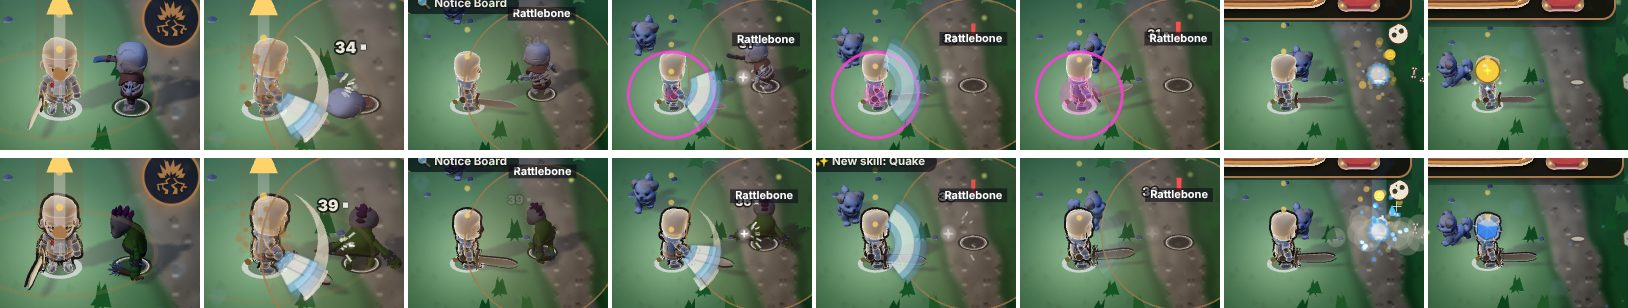
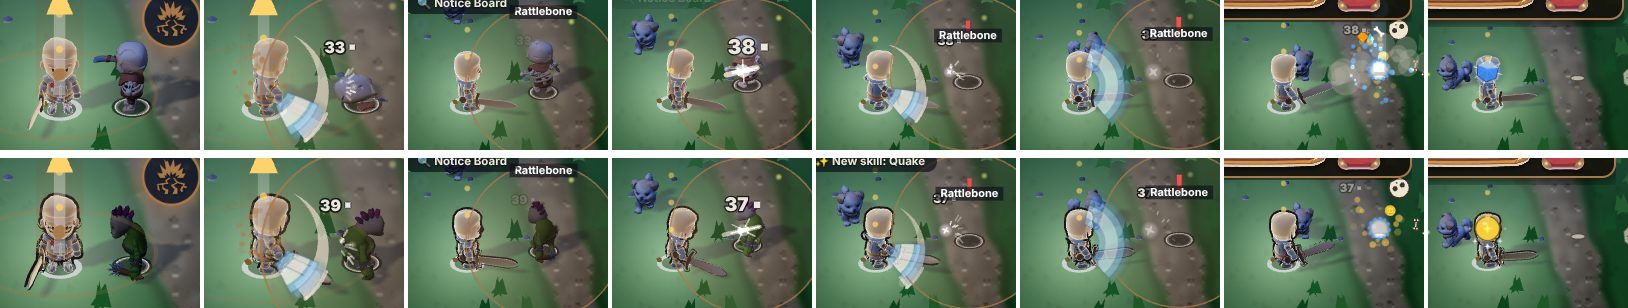
Look v2: final 915x412 evidence (v2 default, plaza lamps only)
Claude-Session: https://claude.ai/code/session_01ABMDoL5VWt79ShQAHyLWuS

diff --git a/docs/concept-visual-language.md b/docs/concept-visual-language.md
@@ -97,14 +97,14 @@ All gameplay evidence from `tools/check.js` only (offline fixture: network block
 2. **What did I miss?** (a) Shared `LOOK3D` keys: grunt/shield/wisp are used by both the arena and the world, so the new look must use world-only keys or the arena changes by accident. (b) NPCs share bodies with enemies and heroes; NPC renewal is in scope (village) but listed after enemies. (c) The village mock drifts toward voxel; the target is rounder blocks. (d) Orel's hero visits the village too: the readability layer touches it visually. It's opt-in, and Orel can veto it for his hero. (e) iPad framing is not mocked, only planned in evidence.
 3. **Code check: does it exist already, what's the risk?** KayKit palette method, Blender-from-code, Quaternius pipeline and lazy-loaded `js/m3d/` already exist, so most of this is content, not new systems. Risks: `js/m3d/` already 9MB, so every new body must replace weight, not just add it; outline shader cost on the phone must be measured; KayKit's rounded style vs "Roblox blocky" is a taste call only Nir can make after seeing the pilot.
 
-## 6. Pilot results (11.11.2026, PR #666, `?look=v2` only)
+## 6. Pilot results (11.11.2026, PR #666)
 
-Nir approved the free pilot (A+B). Built behind `?look=v2`; without it nothing changes. Village and open world only.
+Nir approved the free pilot (A+B), then liked it (11.11: "אוהב את הסטייל החדש"). **Now on by default** in the village and open world; `?look=v1` turns it off for comparison. The arena and Underworld never change.
 
 **What's in it**
 - **Hero:** thin dark outline (about 2.5 px at the phone camera) + an edge-only light rim on the selected hero's own model. Model, skin and gear never replaced. The existing white ground ring (`readable3d.js`) is reused. The rim is `rim-world.js`'s own (merged in #664): look v2 only turns it up in daylight, so there's one rim shader, not two.
 - **One world enemy, new silhouette:** the world grunt is drawn as Quaternius Orc_Skull (CC0), reduced to **2,399 triangles** (today's grunt body: 5,288), 1 material, 128px texture, 43 joints. Same type, hp, size, hit size and timings. Only `foeKey(e)` in `render3d.js` changes, and only when `S.wd` is set.
-- **Village corner:** the plaza in front of the village center gets a round warm paved floor, rounded curb stones and rounder toy lamps. Visual only.
+- **Village corner:** the street lamps around the plaza become rounder toy lamps. A round floor disc and a curb-stone ring were tried and removed (Nir didn't read the disc as a plaza; the stones alone read as scattered pebbles). Visual only.
 
 **Evidence** (`node tools/look-v2-shots.js`, offline: new browser context, every http(s) request answered locally, no real save. Same seed, before vs v2)
 
@@ -120,9 +120,9 @@ World, phone 915×412 (3D, Nir's screenshot size; 844×390 copies in the same fo
 Motion, one grunt next to the hero (top: before, bottom: v2): spawn, spawn, walk, walk, attack, attack, death, death. Spawn, walk and death read clearly. **The attack frames are not usable in either row**: the enemy is not visible in them, before or v2. That's my test setup, not the new body, and it is still open (see below).
 
 ![Arena, phone](concept/visual-language/pilot/p915-arena-scene.jpg)
-**Arena untouched:** the arena scene (HUD hidden) is **pixel-identical** with and without `?look=v2`: 0 of 376,980 pixels (915×412), 0 of 329,160 (844×390) and 0 of 967,600 (iPad). One earlier run differed only because the hero was mid hurt-blink (`render3d.js` hides the hero every other step while `P.inv>0`); shots now clear `P.inv` first.
+**Arena untouched:** the arena scene (HUD hidden) is **pixel-identical** with v2 and with `?look=v1`: 0 of 376,980 pixels (915×412), 0 of 329,160 (844×390) and 0 of 967,600 (iPad). One earlier run differed only because the hero was mid hurt-blink (`render3d.js` hides the hero every other step while `P.inv>0`); shots now clear `P.inv` first.
 
-**Numbers** (SwiftShader on the CPU, so compare before vs v2, not absolute phone FPS. Full data: `pilot/phone915-report.json`, `pilot/phone-report.json`, `pilot/ipad-report.json`. 915×412, final code: 20-at-once frame 43 ms before / 20 ms v2, 0 errors, HUD steady)
+**Numbers** (SwiftShader on the CPU, so compare before vs v2, not absolute phone FPS. Full data: `pilot/phone915-report.json`, `pilot/phone-report.json`, `pilot/ipad-report.json`. 915×412, final code (v2 default, no plaza disc): 20-at-once frame 32 ms v1 / 25 ms v2, 0 errors, HUD steady)
 | | before | v2 |
 |---|---|---|
 | Grunt body triangles | 5,288 | 2,399 |
@@ -141,6 +141,6 @@ Motion, one grunt next to the hero (top: before, bottom: v2): spawn, spawn, walk
 
 **Still open**
 1. Attack frames in the motion strip (test setup).
-2. Plaza floor color still reads cool-grey under the village's blue night light. Taste call for Nir.
+2. (Resolved: the plaza floor disc was removed.)
 3. Outline cracks are possible at hard edges of flat-shaded parts (split normals). Not visible at phone size in these shots.
 4. Next steps only if Nir likes the pilot: more world enemies (shield, wisp), NPC bodies, the rest of the village.
